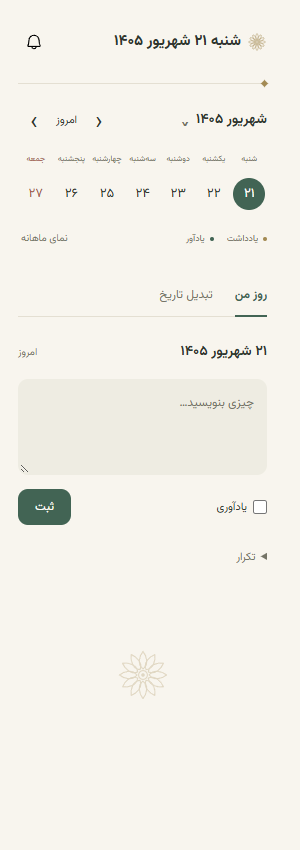
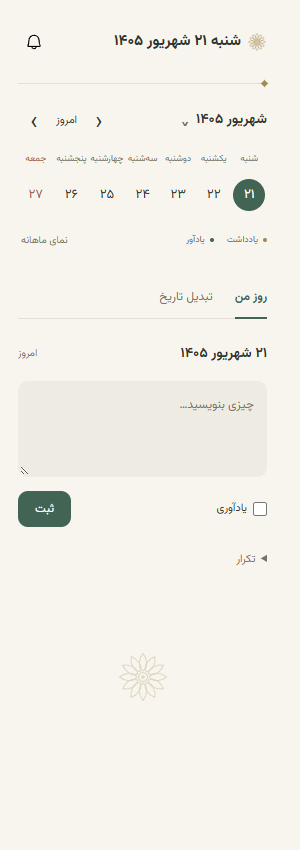
Add cached bulk calendar events provider

diff --git a/app.js b/app.js
@@ -1,7 +1,8 @@
+import {fetchCalendarEvents,clearEventsCache} from './events.js';
 import {occurrence,nextOccurrence} from './recurrence.js';
 import {ZONE,months,weekdays,fa,parts,dayKey,fromKey,addDays,weekIndex,fullDate,fromPersian,parseDate} from './calendar.js';
 const $=id=>document.getElementById(id), isExtension=!!globalThis.chrome?.runtime?.id;
-let data={},selected=fromKey(dayKey(new Date())),view=parts(selected),weekly=true,preferencesLoaded=false,converted=null,draftDirty=false,messageTimer;
+let eventsData={},eventsState='idle',data={},selected=fromKey(dayKey(new Date())),view=parts(selected),weekly=true,preferencesLoaded=false,converted=null,draftDirty=false,messageTimer;
 const drafts=new Map();
 let editingNote=null,editingSeries=null,editScope=null;
 function chooseScope(title){return new Promise(resolve=>{const dialog=$('series-scope');$('scope-title').textContent=title;dialog.returnValue='cancel';dialog.addEventListener('close',()=>resolve(['one','all'].includes(dialog.returnValue)?dialog.returnValue:null),{once:true});dialog.showModal();});}
@@ -98,12 +99,13 @@ function renderCalendar(){
   $('prev').disabled=view.year===1200&&view.month===1;$('next').disabled=view.year===1600&&view.month===12;
 }
 function selectDay(date,navigate=true){if(parts(date).year<1200||parts(date).year>1600)return;if(draftDirty)drafts.set(dayKey(selected),{text:$('note').value,key:editingNote,remind:$('remind-toggle').checked,time:$('reminder-time').value,repeat:repeatDraft(),series:editingSeries,scope:editScope});selected=date;view=parts(date);const draft=drafts.get(dayKey(selected));draftDirty=!!draft;editingNote=draft?.key??null;editingSeries=draft?.series??null;editScope=draft?.scope??null;resetRepeat();if(editingSeries&&data[`series:${editingSeries}`])loadRepeat(data[`series:${editingSeries}`],editScope);if(draft?.repeat)restoreRepeat(draft.repeat);$('note').value=draft?.text??'';$('remind-toggle').checked=draft?.remind??false;$('reminder-time').value=draft?.time||'09:00';updateComposer();$('note-status').textContent=draftDirty?'تغییرات ذخیره نشده':'';renderCalendar();renderDay();if(navigate)showTab('day');}
-function renderDay(){$('selected-title').textContent=fullDate(selected);$('selected-relative').textContent=dayKey(selected)===dayKey(new Date())?'امروز':weekdays[weekIndex(selected)];renderNotes();}
+function renderDay(){const e=eventsData[dayKey(selected)];$('selected-title').textContent=fullDate(selected);$('selected-relative').textContent=dayKey(selected)===dayKey(new Date())?'امروز':weekdays[weekIndex(selected)];renderNotes();let old=$('event-line');if(old)old.remove();if(e?.events?.length||e?.holiday){const line=document.createElement('p');line.id='event-line';line.className='small event-line';line.textContent=`${e.holiday?'تعطیل · ':''}${(e.events||[]).join(' · ')}`;$('day-panel').prepend(line);}}
 function renderReminders(container,items,all){
   container.replaceChildren();if(!items.length){const p=document.createElement('p');p.className='empty';p.textContent=all?'هنوز یادآوری ندارید.':'برای این روز یادآوری ثبت نشده.';container.append(p);return;}
   for(const r of items){const row=document.createElement('div');row.className=`reminder${r.firedAt?' done':''}`;const time=document.createElement('time');time.textContent=fa(r.time);const content=document.createElement('div');content.className='content';const title=document.createElement('strong');title.textContent=r.title;const detail=document.createElement('small');detail.textContent=`${all?fullDate(fromKey(r.date))+' · ':''}${r.expiredOnRestore?'گذشته · بازیابیشده':r.firedAt?'اعلان ارسال شد':r.when<Date.now()?'در انتظار ارسال':'در انتظار یادآوری'}`;content.append(title,detail);const created=creationLabel(r.createdAt);if(created)content.append(created);const del=document.createElement('button');del.className='delete';del.textContent='×';del.setAttribute('aria-label',`حذف یادآور ${r.title}`);del.addEventListener('click',async()=>{try{if(r.seriesId){const scope=await chooseScope('حذف تکرار');if(!scope)return;await request({type:'delete-series',seriesId:r.seriesId,date:r.date,scope});}else await request({type:'delete',id:r.id});await refresh();notify('یادآور حذف شد.');}catch(e){notify(e.message);}});row.append(time,content,del);container.append(row);}
 }
-async function refresh(){data=await storage.get(null);if(!preferencesLoaded){weekly=data.viewMode!=='month';preferencesLoaded=true;}renderCalendar();renderDay();renderAlerts();}
+async function loadEvents(){try{eventsData=await fetchCalendarEvents(view.year,view.month);eventsState='ok';}catch{eventsData={};eventsState='error';}}
+async function refresh(){data=await storage.get(null);await loadEvents();if(!preferencesLoaded){weekly=data.viewMode!=='month';preferencesLoaded=true;}renderCalendar();renderDay();renderAlerts();}
 document.querySelectorAll('[data-tab]').forEach(b=>b.addEventListener('click',()=>showTab(b.dataset.tab)));
 $('open-alerts').addEventListener('click',()=>showTab('alerts'));
 $('today').addEventListener('click',()=>selectDay(fromKey(dayKey(new Date()))));
@@ -182,3 +184,5 @@ initializeConverter();
 $('go-converted').addEventListener('click',()=>selectDay(converted));
 try{await refresh();selectDay(selected);renderToday();if(isExtension){chrome.storage.onChanged.addListener(async(changes,area)=>{if(area!=='local')return;await refresh();});await request({type:'sync'});const dateParam=new URLSearchParams(location.search).get('date');if(dateParam&&/^\d{4}-\d{2}-\d{2}$/.test(dateParam))selectDay(fromKey(dateParam));const id=new URLSearchParams(location.search).get('reminder');if(id&&data[`reminder:${id}`])selectDay(fromKey(data[`reminder:${id}`].date));}}catch(error){notify(error.message);}
 let lastToday=dayKey(new Date());setInterval(()=>{renderToday();renderAlerts();markVisibleRemindersSeen();const today=dayKey(new Date());if(today!==lastToday){const follow=dayKey(selected)===lastToday;lastToday=today;if(follow)selectDay(fromKey(today),false);else{renderCalendar();renderDay();}}},15000);
+
+$('clear-events').addEventListener('click',()=>{clearEventsCache();eventsData={};renderDay();notify('کش مناسبتها پاک شد.');});

diff --git a/sidepanel.html b/sidepanel.html
@@ -4,7 +4,7 @@
 <body><main>
   <div id="home-screen">
   <header class="today-header" aria-label="تاریخ امروز"><h1><img class="date-rosette" src="assets/rosette.svg" width="24" height="24" alt="" aria-hidden="true"><span class="date-heading"><span id="today-weekday"></span> <span id="today-date"></span></span></h1><button id="open-alerts" class="icon-button" aria-label="نمایش همه یادآورها"><img src="assets/bell.svg" width="18" height="18" alt=""><span id="alert-count" class="badge" hidden></span></button></header>
-  <section class="calendar-section" aria-label="تقویم"><div class="section-heading"><h2><button id="month-title" type="button" aria-expanded="false" aria-controls="month-picker" title="انتخاب ماه و سال"></button></h2><div class="navigation"><button id="prev" class="icon-button" aria-label="ماه قبل">‹</button><button id="today" class="text-button">امروز</button><button id="next" class="icon-button" aria-label="ماه بعد">›</button></div></div><div id="month-picker" class="month-picker" hidden><label for="jump-year">سال</label><select id="jump-year"></select><div id="jump-months" class="month-grid" aria-label="انتخاب ماه"></div></div><div class="weekdays" aria-hidden="true"><span>ش</span><span>ی</span><span>د</span><span>س</span><span>چ</span><span>پ</span><span>ج</span></div><div id="calendar" class="calendar" aria-label="روزهای ماه"></div><div class="legend"><span><i class="note-dot"></i>یادداشت</span><span><i class="reminder-dot"></i>یادآور</span><button id="week-toggle" class="text-button">نمای هفتگی</button></div></section>
+  <section class="calendar-section" aria-label="تقویم"><div class="section-heading"><h2><button id="month-title" type="button" aria-expanded="false" aria-controls="month-picker" title="انتخاب ماه و سال"></button></h2><div class="navigation"><button id="prev" class="icon-button" aria-label="ماه قبل">‹</button><button id="today" class="text-button">امروز</button><button id="next" class="icon-button" aria-label="ماه بعد">›</button></div></div><div id="month-picker" class="month-picker" hidden><label for="jump-year">سال</label><select id="jump-year"></select><div id="jump-months" class="month-grid" aria-label="انتخاب ماه"></div></div><div class="weekdays" aria-hidden="true"><span>ش</span><span>ی</span><span>د</span><span>س</span><span>چ</span><span>پ</span><span>ج</span></div><div id="calendar" class="calendar" aria-label="روزهای ماه"></div><div class="legend"><span><i class="note-dot"></i>یادداشت</span><span><i class="reminder-dot"></i>یادآور</span><button id="week-toggle" class="text-button">نمای هفتگی</button><button id="clear-events" class="text-button">پاک کردن کش مناسبتها</button></div></section>
   <nav class="tabs" aria-label="ابزارها"><button class="active" data-tab="day" aria-current="page">روز من</button><button data-tab="convert">تبدیل تاریخ</button></nav>
   <section id="day-panel" class="panel"><div class="section-heading"><h2 id="selected-title"></h2><span class="small" id="selected-relative"></span></div><form id="note-form"><label class="sr-only" for="note">یادداشت</label><textarea id="note" rows="3" maxlength="10000" placeholder="چیزی بنویسید…"></textarea><div class="composer-tools"><label class="remind-switch"><input id="remind-toggle" type="checkbox"><span>یادآوری</span></label><div id="reminder-time-row" hidden><div class="time-24" dir="ltr"><select id="reminder-hour" aria-label="ساعت یادآوری، ۲۴ ساعته"></select><span aria-hidden="true">:</span><select id="reminder-minute" aria-label="دقیقه یادآوری"></select></div><input id="reminder-time" type="hidden" value="09:00"></div><button id="cancel-note" type="button" class="text-button" hidden>انصراف</button><button class="primary" type="submit">ثبت</button></div><details id="repeat-options"><summary>تکرار</summary><label for="repeat-mode">تکرار</label><select id="repeat-mode"><option value="none">فقط همین روز</option><option value="daily">هر روز · روزهای پشتسرهم</option><option value="weekly">روزهای مشخص هفته</option></select><div id="repeat-days" hidden></div><div id="repeat-end-row" hidden><label for="repeat-end">پایان</label><select id="repeat-end"><option value="30">پس از ۳۰ روز</option><option value="7">پس از ۷ روز</option><option value="90">پس از ۹۰ روز</option><option value="custom">تعداد روز دلخواه</option><option value="forever">بدون پایان</option></select><input id="repeat-duration" type="number" min="1" max="36500" value="30" aria-label="تعداد روز از شروع" hidden><p class="small">از روز انتخابشده؛ شامل روز شروع</p></div><p id="repeat-edit-hint" class="small" hidden></p></details><span class="small" id="note-status" role="status"></span></form><div id="day-notes" aria-live="polite"></div></section>
   <section id="convert-panel" class="panel" hidden><h2>یک تاریخ، دو تقویم</h2><form id="convert-form"><label for="calendar-type">تبدیل از</label><select id="calendar-type"><option value="persian">شمسی به میلادی</option><option value="gregorian">میلادی به شمسی</option></select><div class="date-selectors"><div><label for="convert-year">سال</label><select id="convert-year" required></select></div><div><label for="convert-month">ماه</label><select id="convert-month" required></select></div><div><label for="convert-day">روز</label><select id="convert-day" required></select></div></div><button class="primary" type="submit">تبدیل تاریخ</button></form><output id="convert-result" aria-live="polite"></output><button id="go-converted" class="text-button accent" hidden>رفتن به این روز در تقویم ←</button></section>

diff --git a/events.js b/events.js
@@ -1,0 +1,26 @@
+// Provider adapter: replacing the upstream API only requires changing fetchEvents.
+const ENDPOINT='https://pnldev.com/api/calender';
+const TTL=10*86400000,KEY='events-cache-v1';
+export function normalizeEvents(payload,date){
+  const result=payload?.result;
+  if(!result||typeof result!=='object') return {date,holiday:false,events:[]};
+  const events=Array.isArray(result.event)?result.event.filter(x=>typeof x==='string'&&x.trim()):[];
+  return {date,holiday:result.holiday===true,events};
+}
+export async function fetchEvents(date,{signal}={}){
+  const [year,month,day]=date.split('-');
+  const response=await fetch(`${ENDPOINT}?year=${year}&month=${month}&day=${day}`,{signal,headers:{Accept:'application/json'}});
+  if(!response.ok)throw new Error(`events http ${response.status}`);
+  return normalizeEvents(await response.json(),date);
+}
+export async function fetchCalendarEvents(year,month,storage=globalThis.localStorage){
+  const key=`${year}-${month||0}`,now=Date.now();let cache={};try{cache=JSON.parse(storage?.getItem(KEY)||'{}')}catch{}
+  if(cache[key]&&cache[key].expires>now)return cache[key].days;
+  const query=month?`?year=${year}&month=${month}`:`?year=${year}`;
+  const response=await fetch(`${ENDPOINT}${query}`,{headers:{Accept:'application/json'}});if(!response.ok)throw new Error('events http');
+  const raw=await response.json(),days={};const source=raw?.result||{};
+  for(const [m,v] of Object.entries(source))for(const [d,item] of (month?[[m,v]]:Object.entries(v||{}))){const date=`${year}-${String(month||m).padStart(2,'0')}-${String(month?m:d).padStart(2,'0')}`;days[date]={date,holiday:item?.holiday===true,events:Array.isArray(item?.event)?item.event.filter(Boolean):[]};}
+  try{cache[key]={expires:now+TTL,days};storage?.setItem(KEY,JSON.stringify(cache));}catch{}
+  return days;
+}
+export function clearEventsCache(storage=globalThis.localStorage){try{storage?.removeItem(KEY)}catch{}}

diff --git a/styles.css b/styles.css
@@ -97,3 +97,5 @@ select,input:not([type=checkbox]):not([type=hidden]){min-height:var(--control-he
 #series-scope button{min-height:36px;border-radius:var(--radius)}
 
 @media(max-width:320px){.weekdays span{font-size:9px;letter-spacing:-.15px}}
+.event-line{margin-top:-14px;margin-bottom:15px;padding:9px 11px;border-inline-start:2px solid var(--gold);background:#f0ede3;border-radius:6px;font-size:10px;line-height:1.9}
+#clear-events{margin-inline-start:auto}
